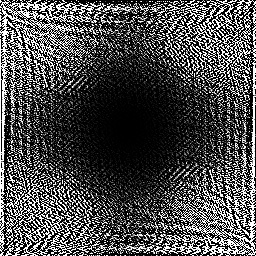
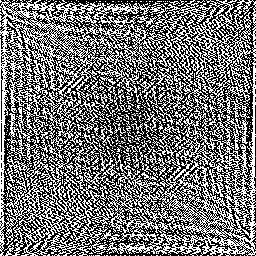
omp done

diff --git a/OpenMP/ImageEnhancementWithGaussianHPFilter/ImageEnhancementWithGaussianHPFilter/main.cpp b/OpenMP/ImageEnhancementWithGaussianHPFilter/ImageEnhancementWithGaussianHPFilter/main.cpp
@@ -11,7 +11,9 @@
 
 using namespace std;
 
-const int N = 10;
+const int N = 1;
+const double CUTOFF_FREQUENCY = 100;
+const double ALPHA = 1.0;
 
 // all the processing done here 
 cv::Mat startProcessing(cv::Mat& in_img, string imName) {
@@ -19,16 +21,6 @@ cv::Mat startProcessing(cv::Mat& in_img, string imName) {
     // get width and height 
     int width = in_img.cols;
     int height = in_img.rows;
-
-    // ensure image dimensions are in powers of 2
-    if (!isPowerOfTwo(width) || !isPowerOfTwo(height)) {
-        cout << "Image size is not in powers of 2." << endl;
-        cout << "Displying back original image..." << endl;
-        return in_img;
-    }
-
-    // cutoff frequency for the Gaussian High-Pass Filter
-    double cutoff_frequency = 128;
 
     // convert image to grayscale 
     uint8_t* grayscaleImage = rgb_to_grayscale(in_img.data, width, height);
@@ -39,39 +31,55 @@ cv::Mat startProcessing(cv::Mat& in_img, string imName) {
     // convert the grayscale image to a 2D complex array
     complex<double>** complex_image = convertUint8ToComplex2D(grayscaleImage, width, height);
 
+    // Zero-pad the image to power-of-two dimensions
+    int paddedWidth, paddedHeight;
+    complex<double>** padded_complex_image = zeroPad2D(
+        complex_image,  // original data
+        width,          // old width
+        height,         // old height
+        paddedWidth,       // [out] new width
+        paddedHeight       // [out] new height
+    );
+
+    // Cleanup original complexImage since we no longer need it
+    cleanup2DArray(complex_image, height);
+
     // Perform forward 2D FFT in-place
     cout << "Performing 2D FFT..." << endl;
     
-    FFT2D_inplace(complex_image, width, height, +1);
+    FFT2D_inplace(padded_complex_image, paddedWidth, paddedHeight, +1);
 
     // convert the fft complex to uint8_t with stop the timer 
     auto fftConvertStart = chrono::high_resolution_clock::now();
 
-    uint8_t* fftImage = convertComplex2DToUint8(complex_image, width, height);
+    uint8_t* fftImage = convertComplex2DToUint8(padded_complex_image, paddedWidth, paddedHeight);
 
     auto fftConvertEnd = chrono::high_resolution_clock::now();
 
     // apply Gaussian High-Pass Filter
-    cout << "Applying Gaussian High-Pass Filter..." << endl;
-    complex<double>** filteredResult = gaussianHighPassFilter(complex_image, width, height, cutoff_frequency);
+    cout << "Applying unsharp masking with Gaussian High-Pass Filter..." << endl;
+    complex<double>** filteredResult = unsharpMaskingFrequencyDomain(padded_complex_image, paddedWidth, paddedHeight, CUTOFF_FREQUENCY, ALPHA);
 
     // convert the gaussian complex to uint8_t with stop the timer 
     auto gaussianConvertStart = chrono::high_resolution_clock::now();
 
-    uint8_t* gaussianImage = convertComplex2DToUint8(filteredResult, width, height);
+    uint8_t* gaussianImage = convertComplex2DToUint8(filteredResult, paddedWidth, paddedHeight);
 
     auto gaussianConvertEnd = chrono::high_resolution_clock::now();
 
     // perform Inverse FFT
     cout << "Performing Inverse FFT..." << endl;
     // Optionally, perform inverse 2D FFT (just pass sign = -1)
-    FFT2D_inplace(filteredResult, width, height, -1);
+    FFT2D_inplace(filteredResult, paddedWidth, paddedHeight, -1);
 
     // end time 
     auto end = chrono::high_resolution_clock::now();
 
+    // crop the image back to original size
+    complex<double>** reconstructedImageWithPaddingRemoved = unzeroPad2D(filteredResult, paddedWidth, paddedHeight, width, height);
+
     // convert the ifft result back to uint8_t 
-    uint8_t* ifftImage = convertComplex2DToUint8(filteredResult, width, height);
+    uint8_t* ifftImage = convertComplex2DToUint8(reconstructedImageWithPaddingRemoved, width, height);
 
     // calculate the different between fft and gaussian start end 
     auto fftDifferent = (chrono::duration_cast<chrono::milliseconds>(fftConvertEnd - fftConvertEnd)).count();
@@ -107,7 +115,7 @@ int main(int argc, char* argv[])
     string image[] = { "lena.jpeg", "wolf.jpg" };
 
     string basePath = "resource/raw/";
-    // string basePath "../../../resource/raw/";
+    //string basePath = "../../../resource/raw/";
 
     cv::Mat rgbImage;
     cv::Mat out;

diff --git a/OpenMP/ImageEnhancementWithGaussianHPFilter/ImageEnhancementWithGaussianHPFilter/Utils.cpp b/OpenMP/ImageEnhancementWithGaussianHPFilter/ImageEnhancementWithGaussianHPFilter/Utils.cpp
@@ -10,6 +10,7 @@ using namespace std;
 bool storeDataIntoFile(double time, string fname, string imName) {
 
     string filePath = "resource/timetaken/" + fname + "_" + imName + ".txt";
+    //string filePath = "../../../resource/timetaken/" + fname + "_" + imName + ".txt";
 
     // read file 
     ifstream readFile(filePath, ios::in);
@@ -77,9 +78,80 @@ uint8_t* convertComplex2DToUint8(complex<double>** complex_image, int width, int
     return grayscale_image;
 }
 
-// Check if number is power of 2
-bool isPowerOfTwo(int n) {
-    return n && !(n & (n - 1));
+int nextPowerOfTwo(int n) {
+    int p = 1;
+    while (p < n) {
+        p <<= 1; // same as p = p * 2
+    }
+    return p;
+}
+
+complex<double>** allocate2DArray(int height, int width) {
+    auto** array2D = new complex<double>*[height];
+    for (int i = 0; i < height; ++i) {
+        array2D[i] = new complex<double>[width];
+    }
+    return array2D;
+}
+
+// Cleanup a 2D array
+void cleanup2DArray(complex<double>**& array, int height) {
+    if (array != nullptr) {
+        for (int i = 0; i < height; ++i) {
+            if (array[i] != nullptr) {
+                delete[] array[i];
+                array[i] = nullptr; // Prevent dangling pointer
+            }
+        }
+        delete[] array;
+        array = nullptr; // Prevent dangling pointer
+    }
+}
+
+complex<double>** zeroPad2D(complex<double>** input,
+    int oldWidth, int oldHeight,
+    int& newWidth, int& newHeight)
+{
+    // 1. Find next power of two in both dimensions
+    newWidth = nextPowerOfTwo(oldWidth);
+    newHeight = nextPowerOfTwo(oldHeight);
+
+    // 2. Allocate new 2D array with padded dimensions
+    complex<double>** padded = allocate2DArray(newHeight, newWidth);
+
+    // 3. Copy old data to top-left corner and zero-fill the remaining area
+    for (int r = 0; r < newHeight; ++r) {
+        for (int c = 0; c < newWidth; ++c) {
+            if (r < oldHeight && c < oldWidth) {
+                // Copy from original
+                padded[r][c] = input[r][c];
+            }
+            else {
+                // Outside original region -> zero
+                padded[r][c] = complex<double>(0.0, 0.0);
+            }
+        }
+    }
+
+    return padded;
+}
+
+complex<double>** unzeroPad2D(complex<double>** padded,
+    int newWidth, int newHeight,
+    int oldWidth, int oldHeight)
+{
+    // 1. Allocate new 2D array for the "cropped" region
+    complex<double>** cropped = allocate2DArray(oldHeight, oldWidth);
+
+    // 2. Copy the top-left region from the padded array
+    for (int r = 0; r < oldHeight; ++r) {
+        for (int c = 0; c < oldWidth; ++c) {
+            cropped[r][c] = padded[r][c];
+        }
+    }
+
+    // 3. Return the "cropped" result
+    return cropped;
 }
 
 

diff --git a/OpenMP/ImageEnhancementWithGaussianHPFilter/ImageEnhancementWithGaussianHPFilter/GaussianHPFilter.cpp b/OpenMP/ImageEnhancementWithGaussianHPFilter/ImageEnhancementWithGaussianHPFilter/GaussianHPFilter.cpp
@@ -3,8 +3,30 @@
 #include <iostream>
 #include <omp.h>
 #include "GaussianHPFilter.hpp"
+#include "Utils.hpp"
 
 using namespace std;
+
+// Shift frequency data so that the DC component is moved from (0,0) to (height/2, width/2).
+void fftShift2D(std::complex<double>** data, int width, int height)
+{
+    int h2 = height / 2;
+    int w2 = width / 2;
+
+    // Swap top-left with bottom-right
+    for (int u = 0; u < h2; ++u) {
+        for (int v = 0; v < w2; ++v) {
+            std::swap(data[u][v], data[u + h2][v + w2]);
+        }
+    }
+
+    // Swap top-right with bottom-left
+    for (int u = 0; u < h2; ++u) {
+        for (int v = w2; v < width; ++v) {
+            std::swap(data[u][v], data[u + h2][v - w2]);
+        }
+    }
+}
 
 // Function to compute Gaussian High-Pass Filter for a given pixel
 double computeHighPassValue(int u, int v, int height, int width, double cutoff_frequency) {
@@ -58,6 +80,41 @@ complex<double>** gaussianHighPassFilter(
 
     // Return the filtered output array
     return G;
+}
+
+// New function for unsharp masking
+complex<double>** unsharpMaskingFrequencyDomain(
+    complex<double>** F_unshifted, // Frequency data in "normal" layout (DC at top-left)
+    int width,
+    int height,
+    double cutoff_frequency,
+    double alpha)
+{
+    // Shift F so that DC is at the center (this is required for a radial Gaussian HP).
+    fftShift2D(F_unshifted, width, height);
+
+    // 1. Get high-pass filtered version of the input image in frequency domain
+    complex<double>** F_HP = gaussianHighPassFilter(F_unshifted, width, height, cutoff_frequency);
+
+    // 2. Create a new 2D array to store the unsharp masked result: 
+    //    F_sharp(u,v) = F(u,v) + alpha * F_HP(u,v)
+    complex<double>** F_sharp = allocate2DArray(height, width);
+
+    // 3. Combine original + scaled high-pass
+    for (int u = 0; u < height; ++u) {
+        for (int v = 0; v < width; ++v) {
+            F_sharp[u][v] = F_unshifted[u][v] + alpha * F_HP[u][v];
+        }
+    }
+
+    // Shift the result back so DC is at(0, 0) again
+    fftShift2D(F_sharp, width, height);
+
+    // 4. Clean up the HPF array if you want
+    cleanup2DArray(F_HP, height);
+
+    // Return the frequency-domain data of the sharpened image
+    return F_sharp;
 }
 
 bool testGaussianHighPassFilter() {

diff --git a/OpenMP/ImageEnhancementWithGaussianHPFilter/ImageEnhancementWithGaussianHPFilter/GaussianHPFilter.hpp b/OpenMP/ImageEnhancementWithGaussianHPFilter/ImageEnhancementWithGaussianHPFilter/GaussianHPFilter.hpp
@@ -4,6 +4,8 @@
 
 using namespace std;
 
+void fftShift2D(std::complex<double>** data, int width, int height);
+
 // Function to compute Gaussian High-Pass Filter for a given pixel
 double computeHighPassValue(int u, int v, int height, int width, double cutoff_frequency);
 
@@ -15,6 +17,13 @@ complex<double>** gaussianHighPassFilter(
     int width,
     int height,
     double cutoff_frequency);
+
+complex<double>** unsharpMaskingFrequencyDomain(
+    complex<double>** F_unshifted, // Frequency data in "normal" layout (DC at top-left)
+    int width,
+    int height,
+    double cutoff_frequency,
+    double alpha);
 
 // Test function for Gaussian High-Pass Filter
 bool testGaussianHighPassFilter();

diff --git a/OpenMP/ImageEnhancementWithGaussianHPFilter/ImageEnhancementWithGaussianHPFilter/Utils.hpp b/OpenMP/ImageEnhancementWithGaussianHPFilter/ImageEnhancementWithGaussianHPFilter/Utils.hpp
@@ -14,4 +14,16 @@ complex<double>** convertUint8ToComplex2D(const uint8_t* image, int width, int h
 // Convert 2D array of complex numbers to a uint8_t* grayscale image 
 uint8_t* convertComplex2DToUint8(complex<double>** complex_image, int width, int height);
 
-bool isPowerOfTwo(int n);
+int nextPowerOfTwo(int n);
+
+complex<double>** allocate2DArray(int height, int width);
+
+void cleanup2DArray(complex<double>**& array, int height);
+
+complex<double>** zeroPad2D(complex<double>** input,
+    int oldWidth, int oldHeight,
+    int& newWidth, int& newHeight);
+
+complex<double>** unzeroPad2D(complex<double>** padded,
+    int newWidth, int newHeight,
+    int oldWidth, int oldHeight);

diff --git a/OpenMP/ImageEnhancementWithGaussianHPFilter/ImageEnhancementWithGaussianHPFilter/FastFourierTransform.hpp b/OpenMP/ImageEnhancementWithGaussianHPFilter/ImageEnhancementWithGaussianHPFilter/FastFourierTransform.hpp
@@ -12,8 +12,6 @@ void FFT1D_iterative(std::complex<double>* x, int n, int sign = +1);
 // Perform 2D FFT by applying 1D FFT row-wise and column-wise
 std::complex<double>** allocate2DComplex(int height, int width);
 
-void cleanup2DArray(std::complex<double>** arr, int height);
-
 std::complex<double>** convertUint8ToComplex2D(const uint8_t* image, int width, int height);
 
 void FFT2D_inplace(std::complex<double>** data, int width, int height, int sign = +1);

diff --git a/OpenMP/ImageEnhancementWithGaussianHPFilter/ImageEnhancementWithGaussianHPFilter/FastFourierTransform.cpp b/OpenMP/ImageEnhancementWithGaussianHPFilter/ImageEnhancementWithGaussianHPFilter/FastFourierTransform.cpp
@@ -95,14 +95,6 @@ complex<double>** convertUint8ToComplex2D(const uint8_t* image, int width, int h
     return out;
 }
 
-// Cleanup
-void cleanup2DArray(complex<double>** arr, int height) {
-    for (int i = 0; i < height; ++i) {
-        delete[] arr[i];
-    }
-    delete[] arr;
-}
-
 // Perform 2D FFT by doing 1D FFT on rows, then 1D FFT on columns.
 void FFT2D_inplace(complex<double>** data, int width, int height, int sign = +1)
 {
